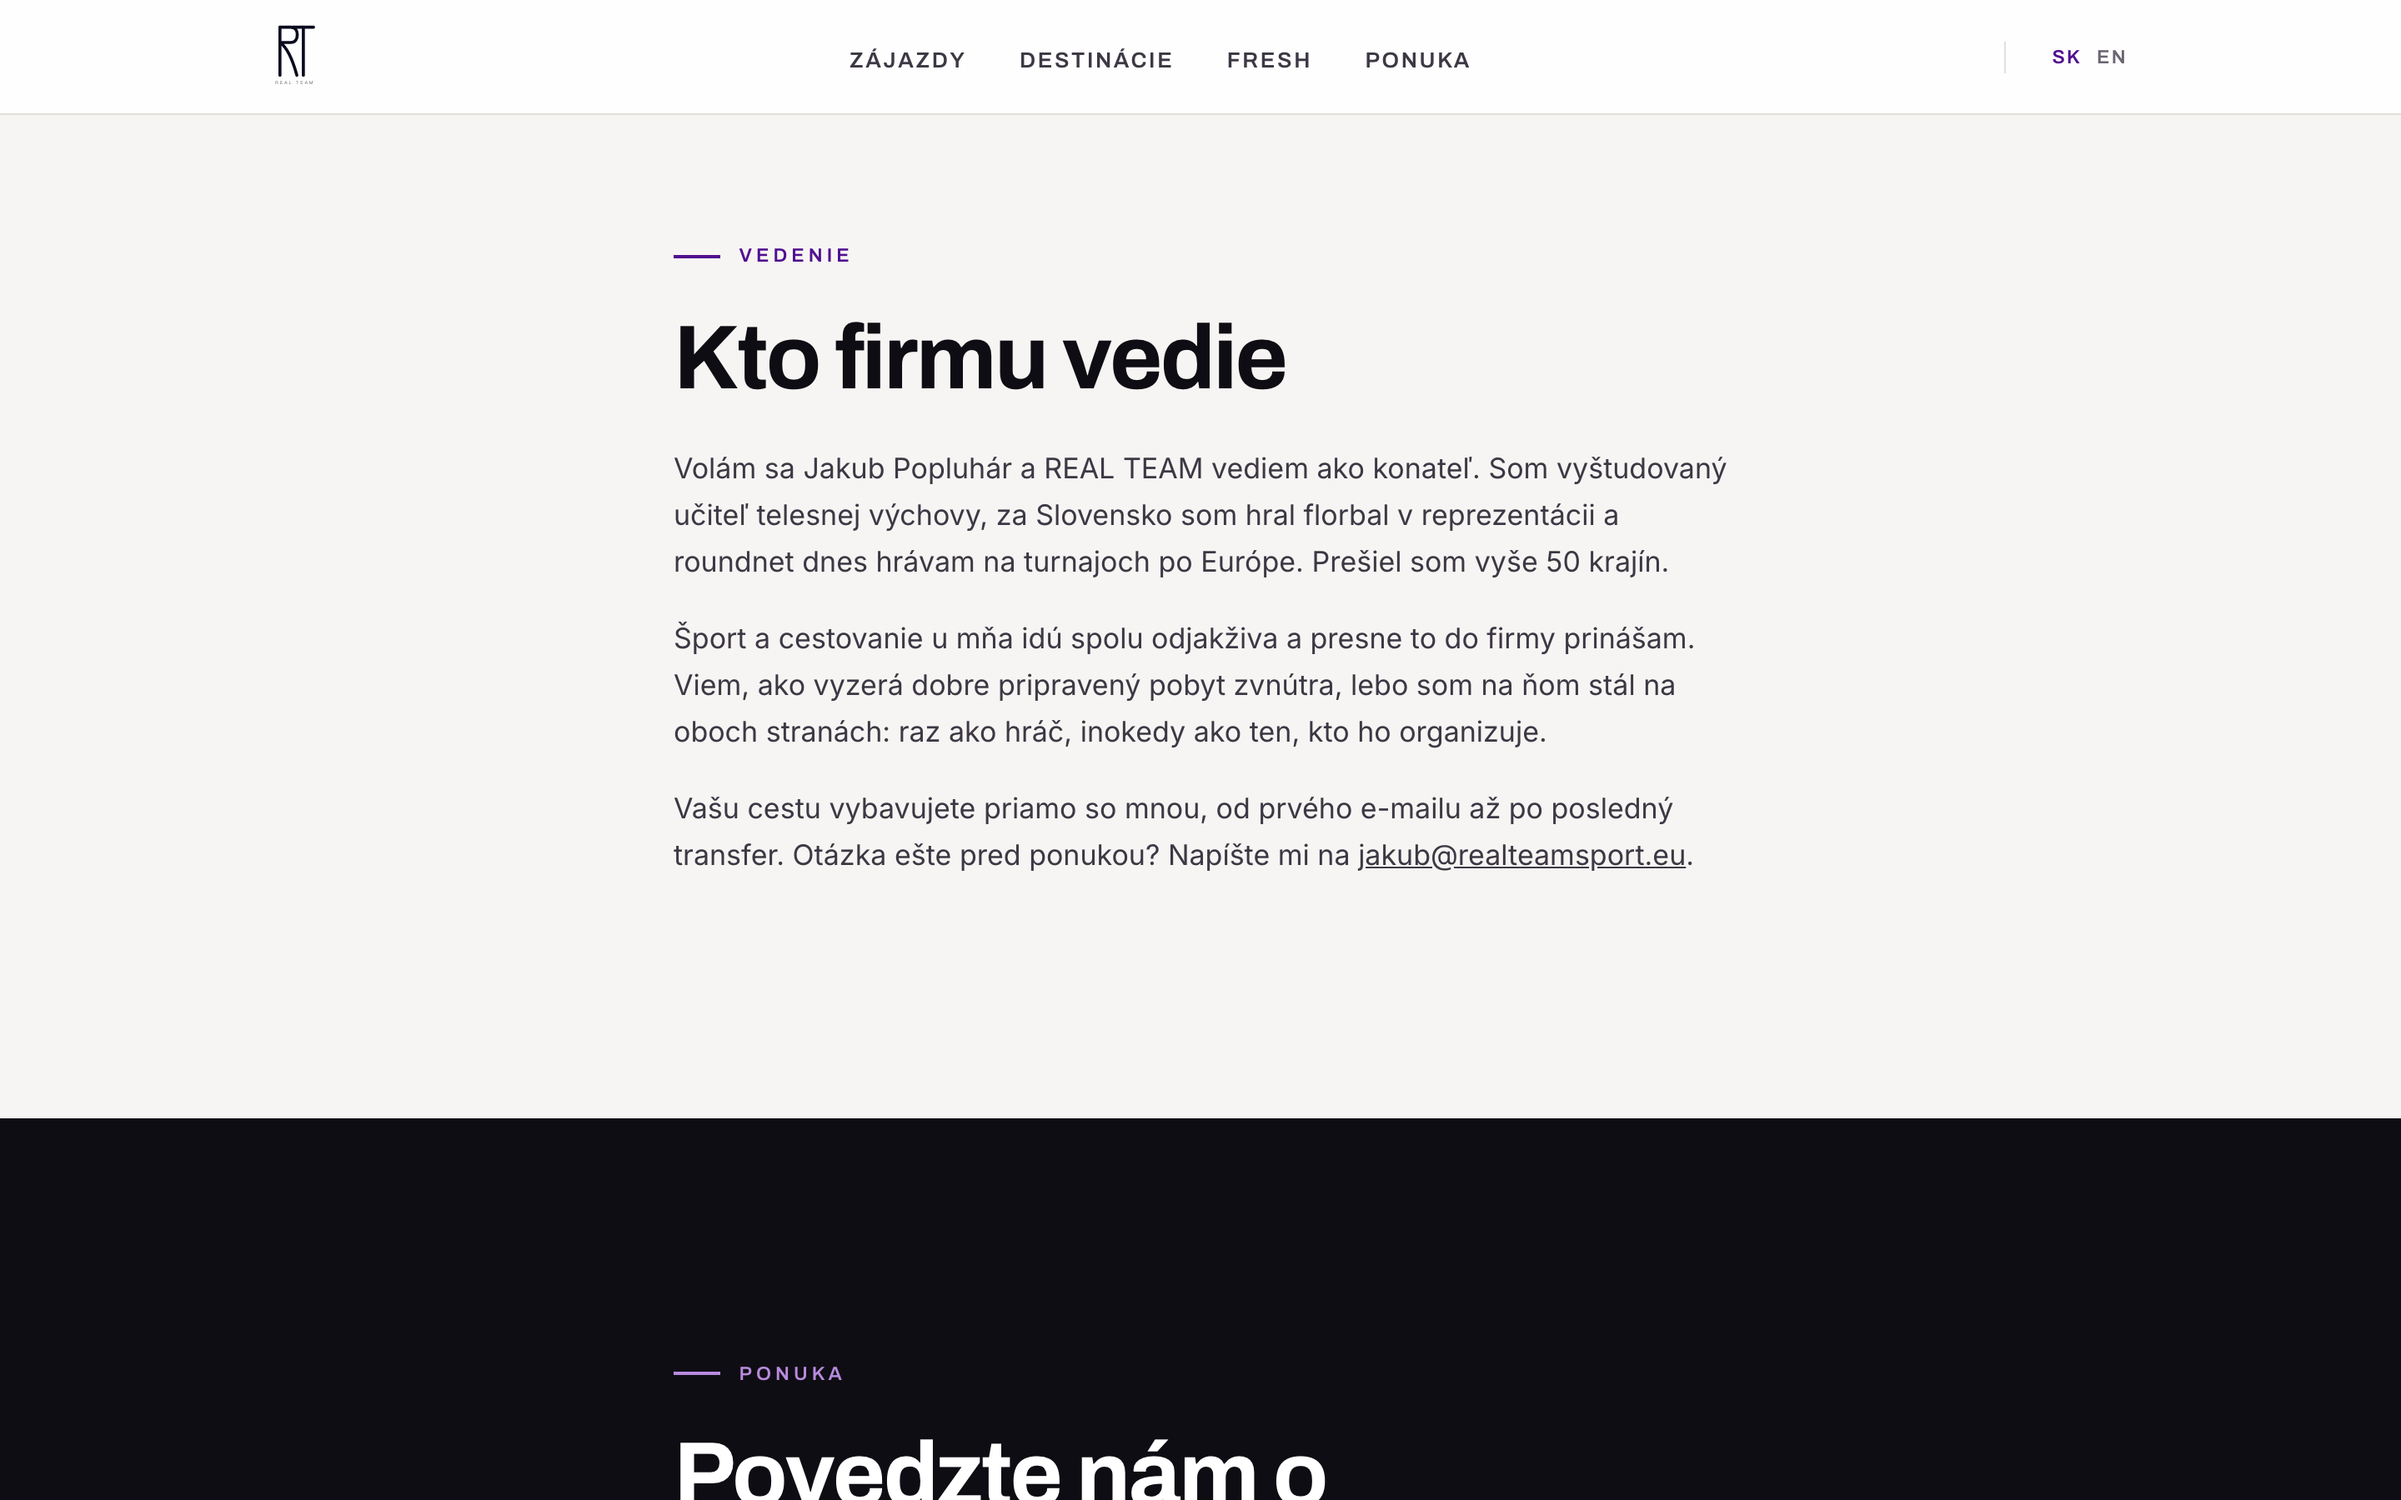
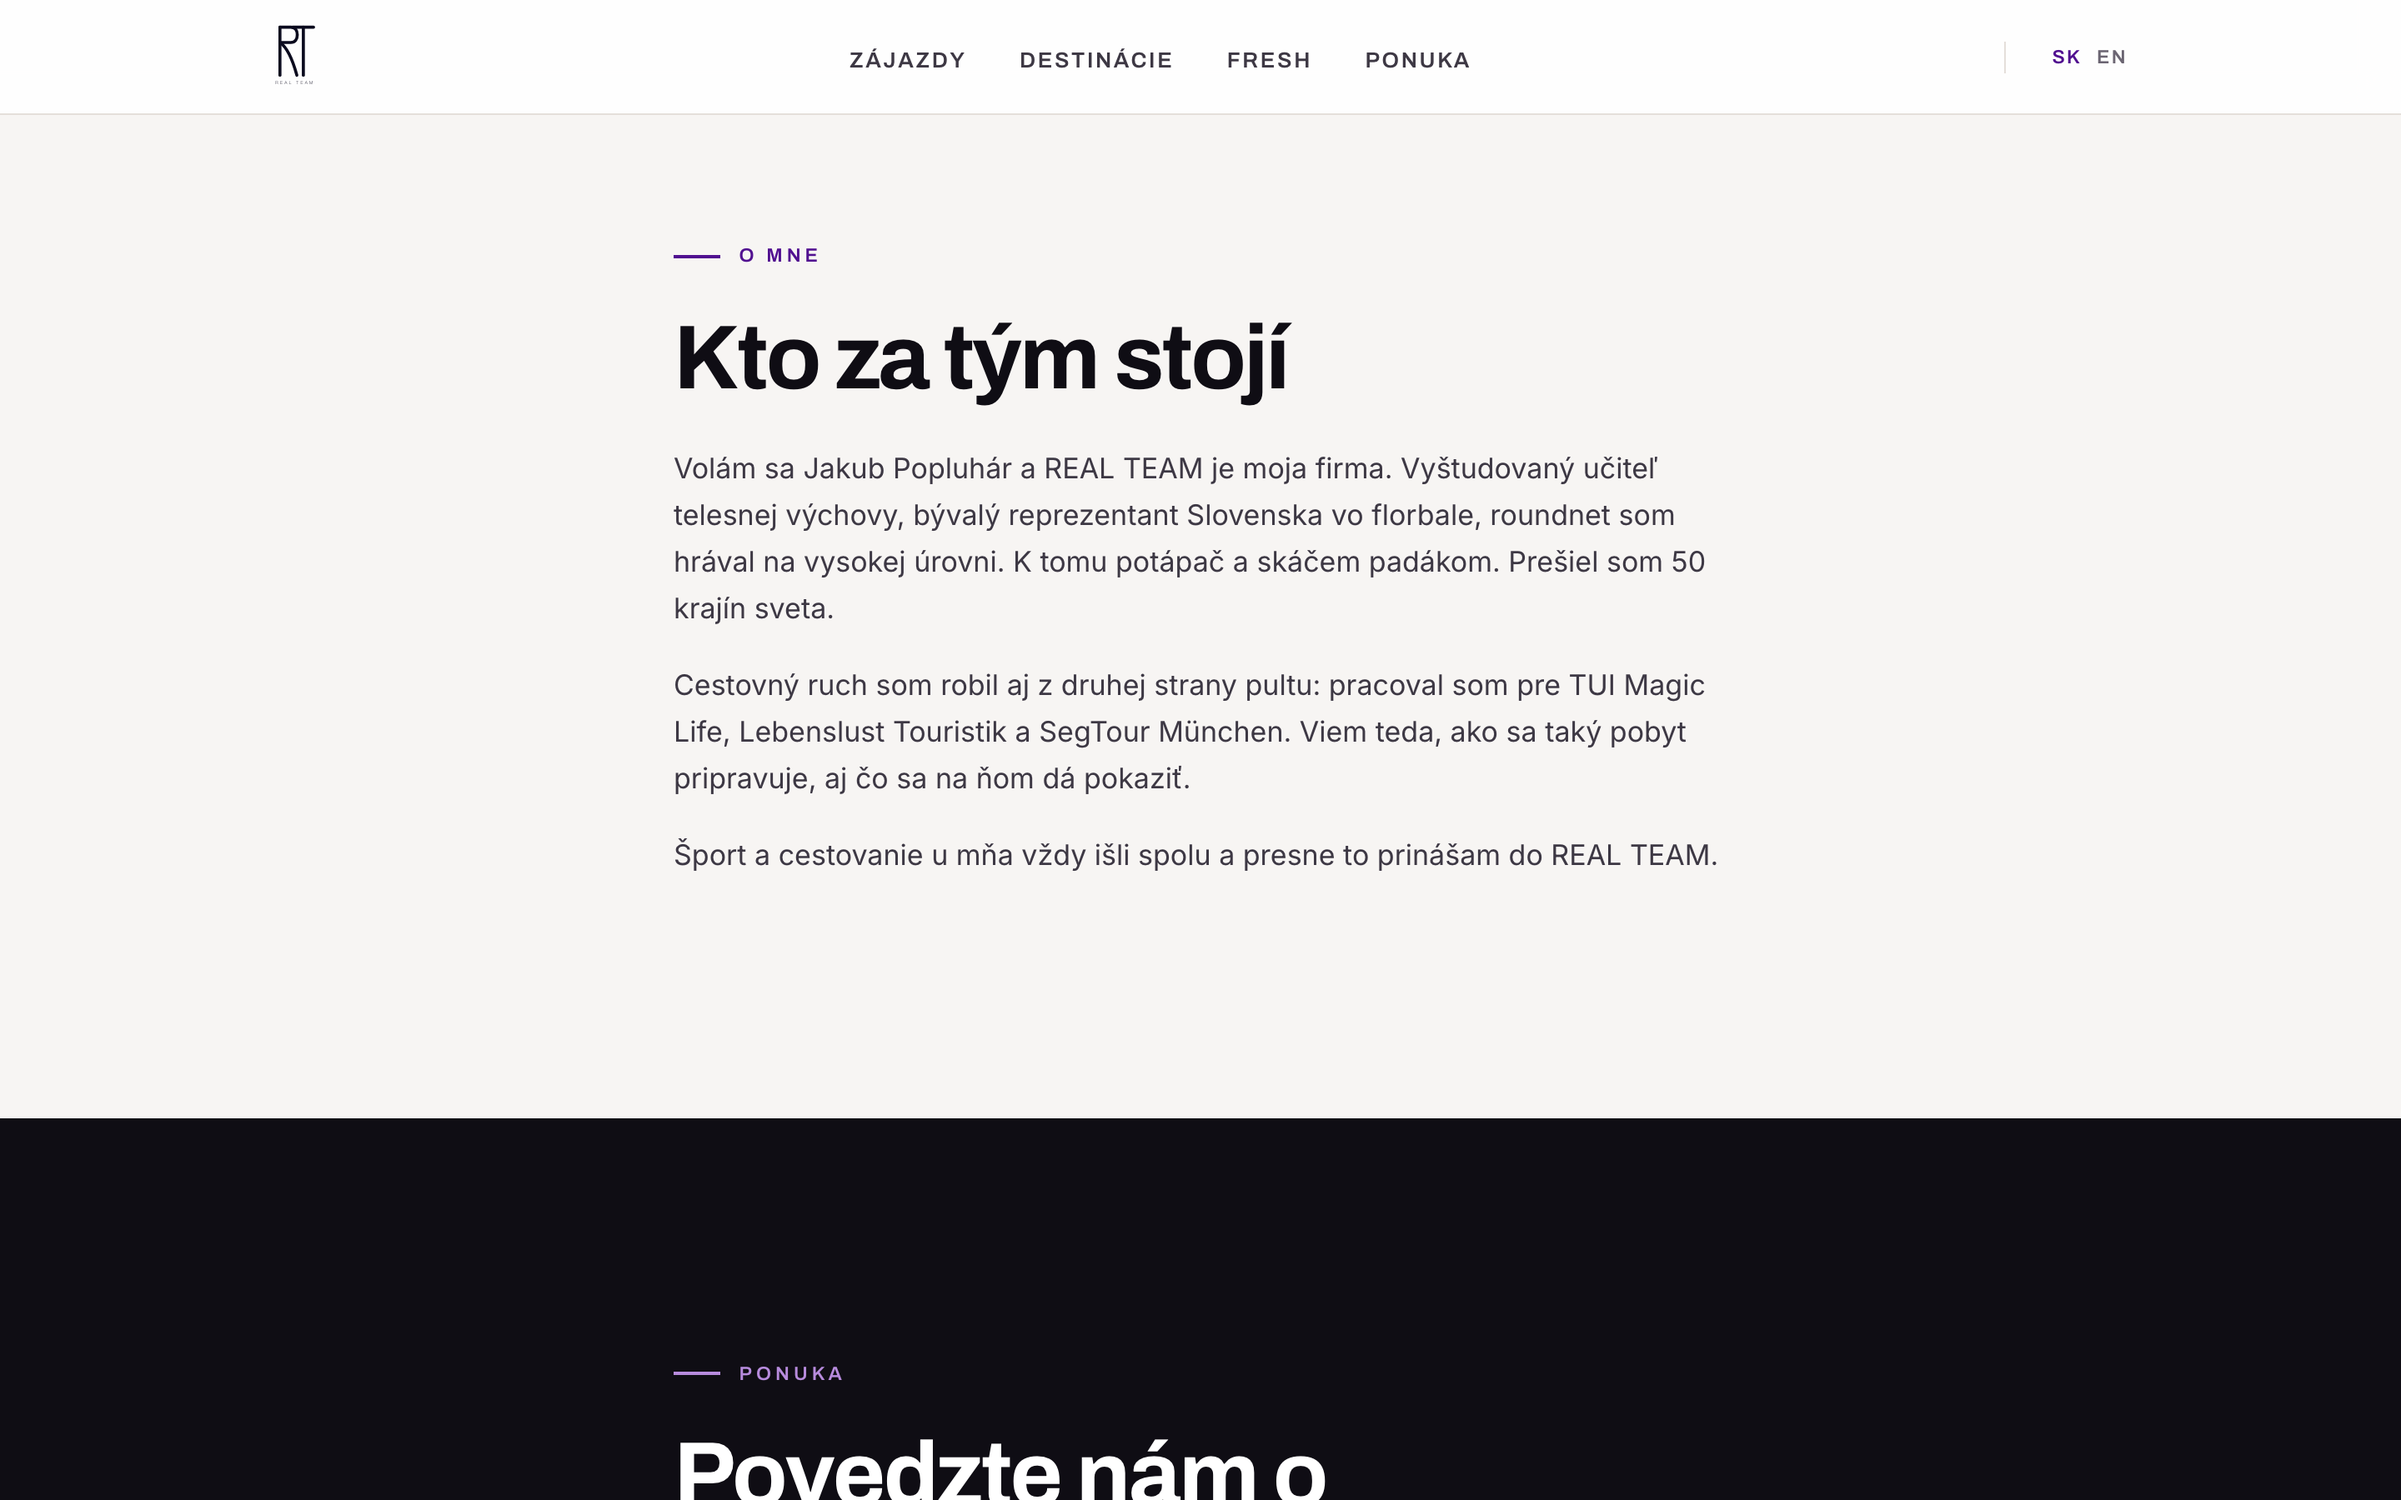
Rewrite the about block: owner, real credentials, no solo framing
Three corrections from the Commander:

Drop "you arrange your trip directly with me". He will have a team, and
the first-person framing made the company sound smaller than it is. The
block now says nothing about team size at all, rather than swapping one
claim for another: by his own wording the team is still ahead ("budem
mat"), so asserting one today would not be true.

Title is now majiteľ / owner in public copy. Friendlier than konateľ and
still accurate, since he is the sole shareholder. pravne.html keeps
konateľ, which is the statutory term and has to stay.

New facts, all stated by the Commander and now also in
memory/personal.md: roundnet at a high level, diver, skydiver,
50 countries, and the strongest one for a travel agency, his earlier
industry roles at TUI Magic Life, Lebenslust Touristik and
SegTour München.

check-ai-tells.py: 0 findings on the Slovak home page.

Changed region(s): [[0.2812, 0.3111, 0.7188, 0.5911], [0.3438, 0.2178, 0.5312, 0.28], [0.3125, 0.1556, 0.3438, 0.1867]]

diff --git a/index.html b/index.html
@@ -66,10 +66,10 @@
       "@type": "Person",
       "@id": "https://realteamsport.eu/#jakub",
       "name": "Jakub Popluhár",
-      "jobTitle": "konateľ",
+      "jobTitle": "majiteľ",
       "email": "jakub@realteamsport.eu",
       "worksFor": { "@id": "https://realteamsport.eu/#organization" },
-      "description": "Konateľ REAL TEAM, s.r.o. Vyštudovaný učiteľ telesnej výchovy, bývalý reprezentant Slovenska vo florbale, hráč roundnetu na turnajoch po Európe."
+      "description": "Majiteľ REAL TEAM, s.r.o. Vyštudovaný učiteľ telesnej výchovy, bývalý reprezentant Slovenska vo florbale, hráč roundnetu na vysokej úrovni, potápač a parašutista. Pracoval pre TUI Magic Life, Lebenslust Touristik a SegTour München. Prešiel 50 krajín sveta."
     },
     {
       "@type": "WebSite",
@@ -322,11 +322,11 @@
 
   <section class="section section-sand" id="vedenie">
     <div class="container container-narrow">
-      <p class="label">Vedenie</p>
-      <h2>Kto firmu vedie</h2>
-      <p>Volám sa Jakub Popluhár a REAL TEAM vediem ako konateľ. Som vyštudovaný učiteľ telesnej výchovy, za Slovensko som hral florbal v reprezentácii a roundnet dnes hrávam na turnajoch po Európe. Prešiel som vyše 50 krajín.</p>
-      <p>Šport a cestovanie u mňa idú spolu odjakživa a presne to do firmy prinášam. Viem, ako vyzerá dobre pripravený pobyt zvnútra, lebo som na ňom stál na oboch stranách: raz ako hráč, inokedy ako ten, kto ho organizuje.</p>
-      <p>Vašu cestu vybavujete priamo so mnou, od prvého e-mailu až po posledný transfer. Otázka ešte pred ponukou? Napíšte mi na <a href="mailto:jakub@realteamsport.eu">jakub@realteamsport.eu</a>.</p>
+      <p class="label">O mne</p>
+      <h2>Kto za tým stojí</h2>
+      <p>Volám sa Jakub Popluhár a REAL TEAM je moja firma. Vyštudovaný učiteľ telesnej výchovy, bývalý reprezentant Slovenska vo florbale, roundnet som hrával na vysokej úrovni. K tomu potápač a skáčem padákom. Prešiel som 50 krajín sveta.</p>
+      <p>Cestovný ruch som robil aj z druhej strany pultu: pracoval som pre TUI Magic Life, Lebenslust Touristik a SegTour München. Viem teda, ako sa taký pobyt pripravuje, aj čo sa na ňom dá pokaziť.</p>
+      <p>Šport a cestovanie u mňa vždy išli spolu a presne to prinášam do REAL TEAM.</p>
     </div>
   </section>
 

diff --git a/en/index.html b/en/index.html
@@ -66,10 +66,10 @@
       "@type": "Person",
       "@id": "https://realteamsport.eu/#jakub",
       "name": "Jakub Popluhár",
-      "jobTitle": "CEO",
+      "jobTitle": "Owner",
       "email": "jakub@realteamsport.eu",
       "worksFor": { "@id": "https://realteamsport.eu/#organization" },
-      "description": "CEO of REAL TEAM, s.r.o. A qualified PE teacher, a former Slovak floorball international, and a roundnet player on the European tournament circuit."
+      "description": "Owner of REAL TEAM, s.r.o. A qualified PE teacher, a former Slovak floorball international, a high-level roundnet player, a diver and a skydiver. Previously worked for TUI Magic Life, Lebenslust Touristik and SegTour München. Has travelled 50 countries."
     },
     {
       "@type": "WebSite",
@@ -322,11 +322,11 @@
 
   <section class="section section-sand" id="vedenie">
     <div class="container container-narrow">
-      <p class="label">Leadership</p>
-      <h2>Who runs the company</h2>
-      <p>My name is Jakub Popluhár and I run REAL TEAM as its CEO. I am a qualified PE teacher, I played floorball for the Slovak national team, and these days I play roundnet at tournaments around Europe. I have travelled through more than 50 countries.</p>
-      <p>Sport and travel have always been the same thing for me, and that is what I bring to the company. I know what a well prepared trip looks like from the inside, because I have stood on both sides of one: sometimes as a player, sometimes as the person running it.</p>
-      <p>You arrange your trip directly with me, from the first email to the last transfer. A question before the offer? Write to me at <a href="mailto:jakub@realteamsport.eu">jakub@realteamsport.eu</a>.</p>
+      <p class="label">About me</p>
+      <h2>Who is behind it</h2>
+      <p>My name is Jakub Popluhár and REAL TEAM is my company. A qualified PE teacher, a former Slovak floorball international, and a roundnet player at a high level. Also a diver, and I skydive. I have travelled 50 countries.</p>
+      <p>I have worked the other side of the counter too: for TUI Magic Life, Lebenslust Touristik and SegTour München. So I know how a trip like this gets built, and what can go wrong on it.</p>
+      <p>Sport and travel have always gone together for me, and that is what I bring to REAL TEAM.</p>
     </div>
   </section>
 

diff --git a/SITREP.md b/SITREP.md
@@ -8,7 +8,7 @@
 
 | Strang | Stand | Lage |
 |---|---|---|
-| `rt-sport-website` | 2026-08-03 10:04 · heute | SEO/GEO, Ponuka-Wortwahl, FR-Logo, Vedenie-Block. **Committet und auf `main` gepusht, aber weiterhin NICHT live** (Pages serviert `gh-pages`). Wartet auf SK-Korrektur und Pavol. |
+| `rt-sport-website` | 2026-08-03 10:12 · heute | SEO/GEO, Ponuka-Wortwahl, FR-Logo, Vedenie-Block. **Committet und auf `main` gepusht, aber weiterhin NICHT live** (Pages serviert `gh-pages`). Wartet auf SK-Korrektur und Pavol. |
 
 ---
 
@@ -81,6 +81,15 @@ zwei Aenderungen sind noch nicht einmal committet.
   kommt vom Commander im Gespraech, nirgends abgelegt). `Person`-Schema traegt dieselbe Kurzbio.
   `check-ai-tells.py`: SK-Startseite **0 Treffer**, EN 8 Advisory (Partizip-Fuellsel, groesstenteils
   Altbestand).
+- **Bio v3 (2026-08-03 10:12), vom Commander diktiert.** Drei Korrekturen: (1) **kein** "vašu cestu
+  vybavujete priamo so mnou" mehr, er wird ein Team haben und die Ich-Formulierung liess die Firma
+  klein wirken. Ich habe die Team-Behauptung NICHT durch eine andere ersetzt, weil das Team laut
+  seiner eigenen Formulierung erst kommt ("budem mať") - die Seite sagt jetzt schlicht nichts
+  darueber. (2) Titel oeffentlich **majiteľ / owner**, nicht konateľ, nicht founder; `pravne.html`
+  behaelt konateľ, das ist der gesetzliche Begriff. (3) Neu belegt: Roundnet auf hohem Niveau,
+  **potápač**, **skáče padákom**, **50 krajín sveta**, und als staerkstes Argument die frueheren
+  Arbeitgeber **TUI Magic Life · Lebenslust Touristik · SegTour München**. Alles in
+  `memory/personal.md` unter "Bio facts" abgelegt. `check-ai-tells.py` SK-Startseite: 0 Treffer.
 - **Eigener Pruef-Fehler, fuer die Zukunft:** auf Port 8899 lief noch ein Server aus
   `builds/websites/future-roundnet`; der neue konnte nicht binden und ein Screenshot-Lauf ging gegen
   die falsche Seite. **Vor jedem Preview-Lauf den Titel der ausgelieferten Seite pruefen**
@@ -136,4 +145,4 @@ zwei Aenderungen sind noch nicht einmal committet.
 - Ob die Seite ueberhaupt live gehen soll, oder vorerst lokal bleibt.
 
 ---
-*Letzte Aenderung: 2026-08-03 10:04*
+*Letzte Aenderung: 2026-08-03 10:12*
